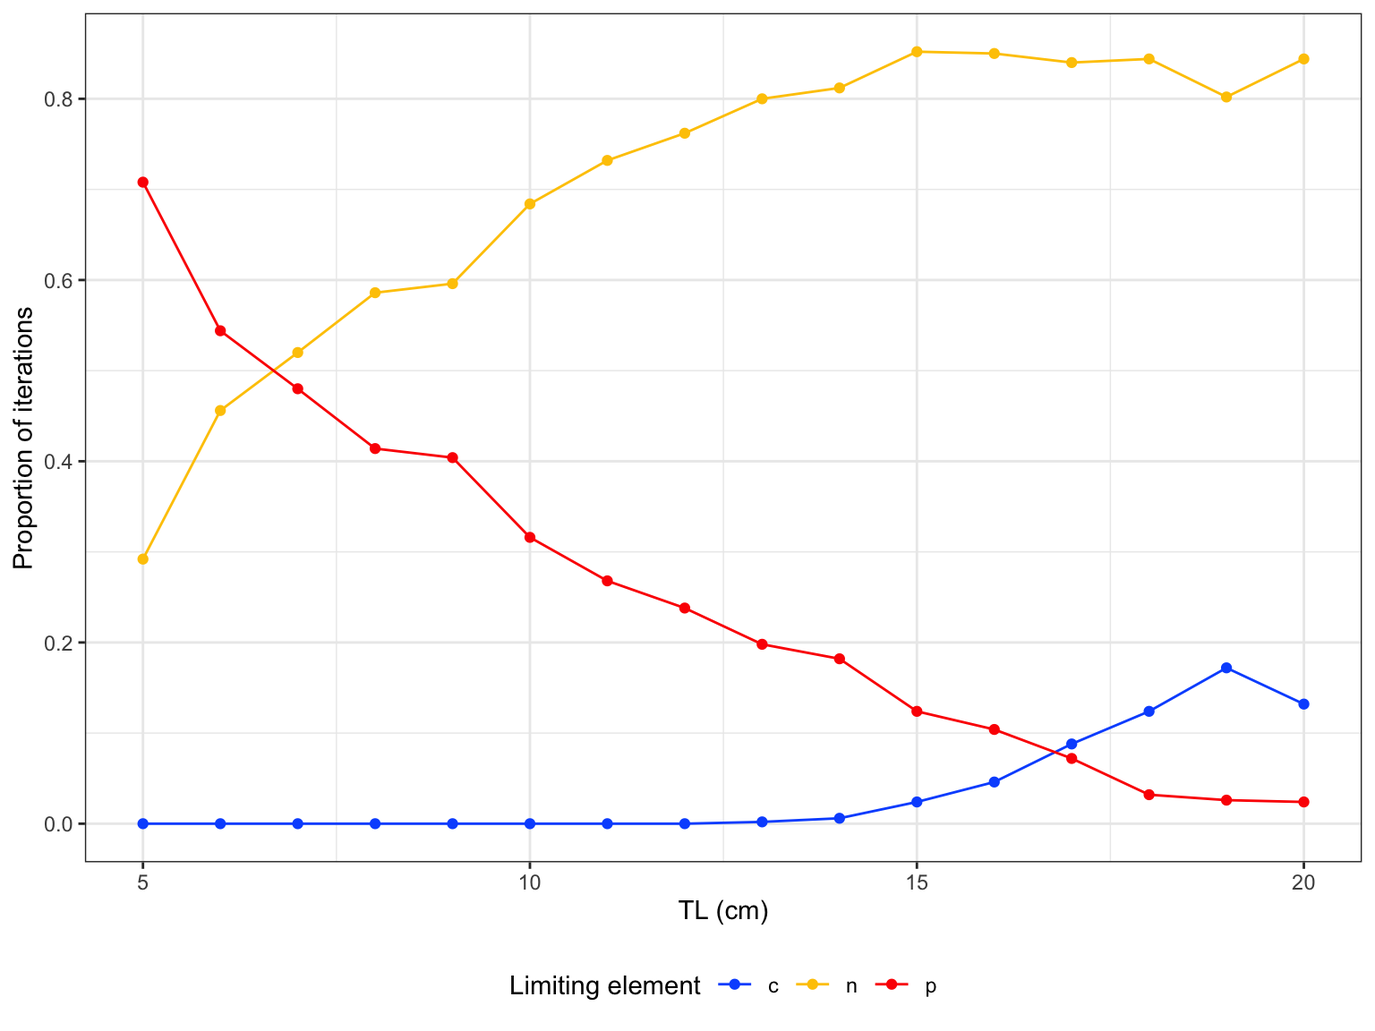
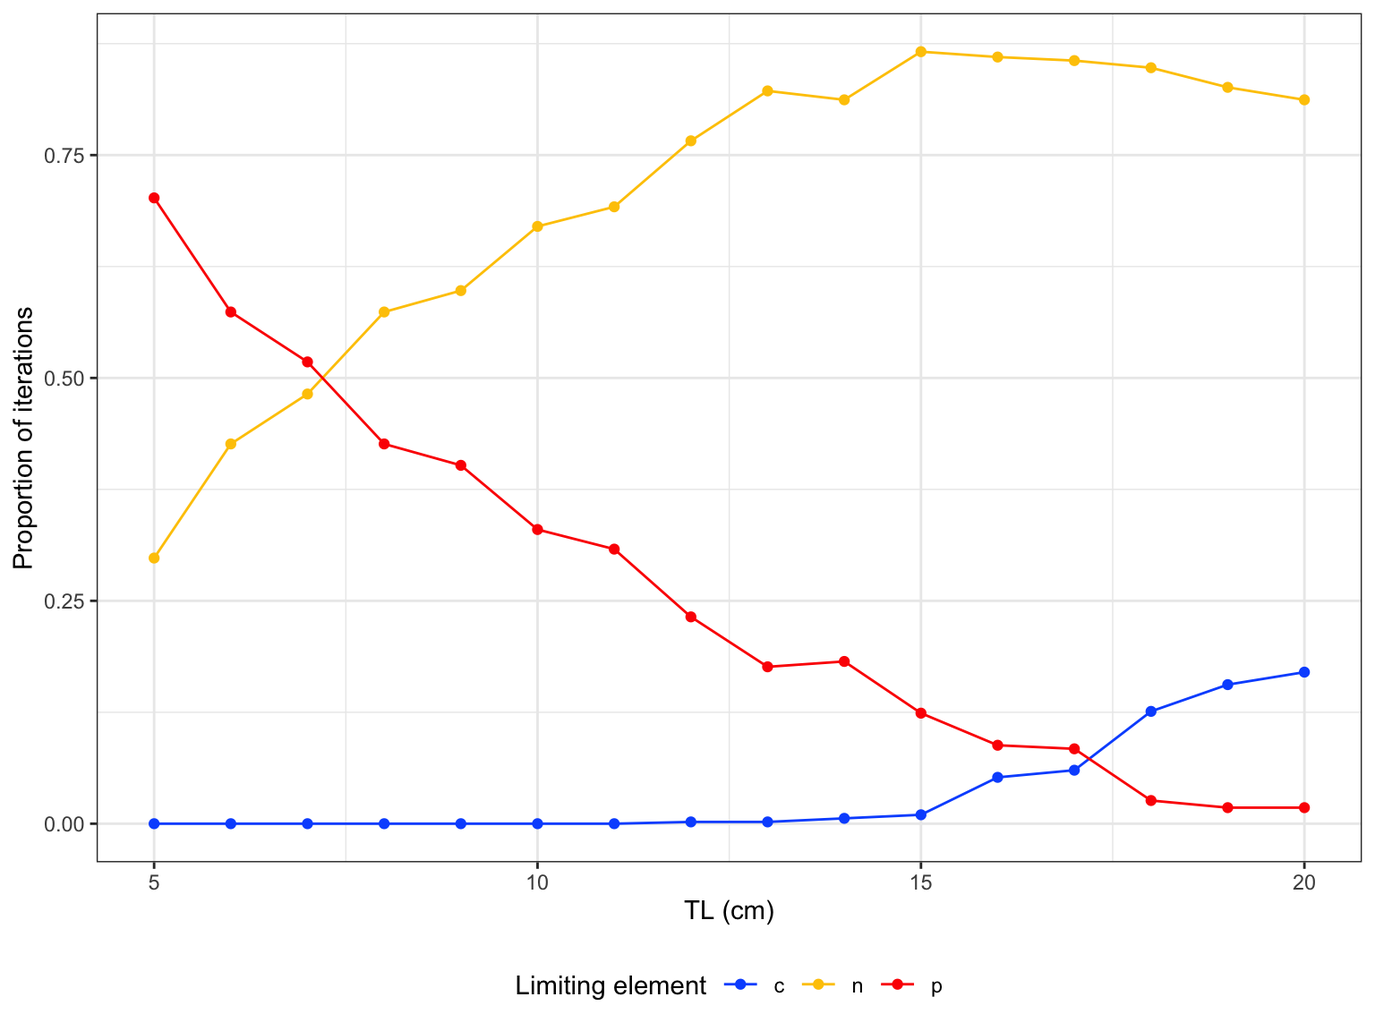
Built site for fishflux: 0.0.1@70c0918

diff --git a/articles/intro_to_fishflux.html b/articles/intro_to_fishflux.html
@@ -411,7 +411,7 @@ Elemental stoichiometry of diet
 <span class="co">#&gt;            species    t0 Linf     k     asp troph   lwa_m      lwa_sd lwb_m</span>
 <span class="co">#&gt; 1 Zebrasoma scopas -0.49 13.3 0.425 2.02091     2 0.02455 0.002627551  2.98</span>
 <span class="co">#&gt;      lwb_sd     mdw_m        f0_m        f0_sd alpha_m   alpha_sd</span>
-<span class="co">#&gt; 1 0.0255102 0.2504833 0.001517989 3.239441e-10    0.77 0.05286288</span>
+<span class="co">#&gt; 1 0.0255102 0.2504833 0.001517989 3.335891e-10    0.77 0.05286288</span>
 </pre></div>
 
 <p>All other parameters have to be provided by the user. For more information on how to acquire these parameters, take a look at (“this paper” add reference to methods paper).</p>
@@ -432,56 +432,56 @@ Elemental stoichiometry of diet
 <div class="sourceCode" id="cb10"><pre class="downlit">
 <span class="kw">fishflux</span>::<span class="fu"><a href="../reference/extract.html">extract</a></span>(<span class="kw">model</span>, <span class="fu"><a href="https://rdrr.io/r/base/c.html">c</a></span>(<span class="st">"Fn"</span>,<span class="st">"Fp"</span>))
 <span class="co">#&gt;    TL      Fn_mean    Fn_median        Fn_sd      Fn_2.5%    Fn_97.5%</span>
-<span class="co">#&gt; 1   5 0.0008624071 0.0007945772 0.0004344117 0.0002095275 0.001999599</span>
-<span class="co">#&gt; 2   6 0.0012887411 0.0012073908 0.0006003062 0.0003488058 0.002764480</span>
-<span class="co">#&gt; 3   7 0.0018719815 0.0017635960 0.0008178470 0.0005623709 0.003654885</span>
-<span class="co">#&gt; 4   8 0.0024894439 0.0023737883 0.0011257218 0.0007663171 0.005224500</span>
-<span class="co">#&gt; 5   9 0.0035424230 0.0032828864 0.0017305192 0.0009736595 0.007780738</span>
-<span class="co">#&gt; 6  10 0.0044270966 0.0039840207 0.0025288436 0.0010760292 0.010408472</span>
-<span class="co">#&gt; 7  11 0.0056378789 0.0049518562 0.0032996419 0.0012578436 0.013224862</span>
-<span class="co">#&gt; 8  12 0.0071758597 0.0061660378 0.0042307925 0.0015277784 0.016996612</span>
-<span class="co">#&gt; 9  13 0.0090130234 0.0075073697 0.0055369632 0.0020521413 0.022371724</span>
-<span class="co">#&gt; 10 14 0.0109935990 0.0093602720 0.0070901704 0.0017994043 0.028753355</span>
-<span class="co">#&gt; 11 15 0.0141239876 0.0124402215 0.0089976417 0.0023906456 0.036222880</span>
-<span class="co">#&gt; 12 16 0.0160743904 0.0143871028 0.0101548214 0.0030852579 0.042083295</span>
-<span class="co">#&gt; 13 17 0.0192069267 0.0173013642 0.0122418752 0.0039121735 0.048320349</span>
-<span class="co">#&gt; 14 18 0.0232574873 0.0211195825 0.0145605170 0.0050542017 0.057707720</span>
-<span class="co">#&gt; 15 19 0.0270940891 0.0233006100 0.0178455787 0.0064934561 0.070626165</span>
-<span class="co">#&gt; 16 20 0.0331138160 0.0286295615 0.0213946779 0.0080750147 0.086718964</span>
+<span class="co">#&gt; 1   5 0.0009208986 0.0008757712 0.0004455789 0.0002022490 0.002000257</span>
+<span class="co">#&gt; 2   6 0.0013399563 0.0012597864 0.0006321721 0.0003151797 0.002742479</span>
+<span class="co">#&gt; 3   7 0.0018287464 0.0017507786 0.0008915185 0.0004924142 0.003881261</span>
+<span class="co">#&gt; 4   8 0.0025720509 0.0023952971 0.0012882248 0.0006815558 0.005631768</span>
+<span class="co">#&gt; 5   9 0.0032735337 0.0029796680 0.0016062287 0.0009518918 0.007003784</span>
+<span class="co">#&gt; 6  10 0.0043860667 0.0039436169 0.0023872770 0.0009850060 0.010501280</span>
+<span class="co">#&gt; 7  11 0.0055169390 0.0048310204 0.0030091685 0.0013552425 0.012784785</span>
+<span class="co">#&gt; 8  12 0.0073186763 0.0063223437 0.0045134203 0.0018951753 0.019099055</span>
+<span class="co">#&gt; 9  13 0.0092162014 0.0080925184 0.0054666085 0.0021052881 0.022261287</span>
+<span class="co">#&gt; 10 14 0.0114989556 0.0095159432 0.0073907462 0.0019050427 0.028901945</span>
+<span class="co">#&gt; 11 15 0.0140201767 0.0119463611 0.0088137531 0.0028569763 0.036259840</span>
+<span class="co">#&gt; 12 16 0.0157320262 0.0130153116 0.0105847183 0.0026732200 0.041301412</span>
+<span class="co">#&gt; 13 17 0.0189606768 0.0152537627 0.0125317917 0.0038670285 0.050567784</span>
+<span class="co">#&gt; 14 18 0.0237221560 0.0201542942 0.0151217670 0.0049787751 0.059509532</span>
+<span class="co">#&gt; 15 19 0.0279889856 0.0235704931 0.0182011286 0.0067124438 0.070516294</span>
+<span class="co">#&gt; 16 20 0.0327026588 0.0274801001 0.0210512137 0.0078839282 0.085825042</span>
 <span class="co">#&gt;          Fn_25%      Fn_75%      Fp_mean    Fp_median        Fp_sd      Fp_2.5%</span>
-<span class="co">#&gt; 1  0.0005662332 0.001093958 7.801003e-05 3.704636e-05 0.0001044019 2.551625e-06</span>
-<span class="co">#&gt; 2  0.0009010228 0.001600764 1.740239e-04 9.436777e-05 0.0002042322 3.961847e-06</span>
-<span class="co">#&gt; 3  0.0013294641 0.002305454 2.859290e-04 1.646443e-04 0.0003192831 1.405270e-05</span>
-<span class="co">#&gt; 4  0.0016144875 0.003183081 4.750536e-04 3.164570e-04 0.0004458099 2.765282e-05</span>
-<span class="co">#&gt; 5  0.0022736909 0.004472521 7.377827e-04 4.803310e-04 0.0007069980 1.768506e-05</span>
-<span class="co">#&gt; 6  0.0026456679 0.005588843 1.083127e-03 7.478920e-04 0.0010383943 4.264640e-05</span>
-<span class="co">#&gt; 7  0.0032522462 0.007251977 1.496651e-03 1.105136e-03 0.0013406535 4.780548e-05</span>
-<span class="co">#&gt; 8  0.0041611347 0.009550999 2.121005e-03 1.650260e-03 0.0017487660 1.213738e-04</span>
-<span class="co">#&gt; 9  0.0048767812 0.012088629 2.788935e-03 2.158227e-03 0.0022892499 1.914251e-04</span>
-<span class="co">#&gt; 10 0.0055120411 0.014797055 3.622380e-03 2.970946e-03 0.0028462531 3.000881e-04</span>
-<span class="co">#&gt; 11 0.0068496945 0.019050095 4.942022e-03 4.280355e-03 0.0036056407 4.039846e-04</span>
-<span class="co">#&gt; 12 0.0075884592 0.021542258 5.822022e-03 5.148373e-03 0.0040528073 7.273919e-04</span>
-<span class="co">#&gt; 13 0.0089394263 0.025626847 7.205076e-03 6.416592e-03 0.0049006531 1.092066e-03</span>
-<span class="co">#&gt; 14 0.0110506777 0.031714178 9.016722e-03 8.070478e-03 0.0058509763 1.704170e-03</span>
-<span class="co">#&gt; 15 0.0130668219 0.036150434 1.078399e-02 9.348053e-03 0.0071514568 2.531557e-03</span>
-<span class="co">#&gt; 16 0.0162382511 0.044094051 1.317124e-02 1.120968e-02 0.0085237586 3.273215e-03</span>
+<span class="co">#&gt; 1  0.0006054676 0.001156666 8.155823e-05 4.332713e-05 0.0001033486 2.989275e-06</span>
+<span class="co">#&gt; 2  0.0009175032 0.001690877 1.723427e-04 8.502066e-05 0.0002065656 6.143016e-06</span>
+<span class="co">#&gt; 3  0.0011949198 0.002324027 2.801890e-04 1.545817e-04 0.0003161546 1.173326e-05</span>
+<span class="co">#&gt; 4  0.0016852692 0.003194302 4.896933e-04 2.900398e-04 0.0005100453 1.630476e-05</span>
+<span class="co">#&gt; 5  0.0021538957 0.004113712 6.573759e-04 4.128146e-04 0.0006307567 2.590260e-05</span>
+<span class="co">#&gt; 6  0.0027216125 0.005649965 1.055816e-03 7.193563e-04 0.0009626728 4.740704e-05</span>
+<span class="co">#&gt; 7  0.0032545750 0.007213247 1.449916e-03 1.069282e-03 0.0012495229 9.130218e-05</span>
+<span class="co">#&gt; 8  0.0039363585 0.009304058 2.169990e-03 1.670609e-03 0.0018669010 1.074961e-04</span>
+<span class="co">#&gt; 9  0.0050148017 0.012349168 2.886499e-03 2.365412e-03 0.0021914941 1.963376e-04</span>
+<span class="co">#&gt; 10 0.0057290437 0.016368143 3.834394e-03 3.151611e-03 0.0030031959 2.538683e-04</span>
+<span class="co">#&gt; 11 0.0072183242 0.018960108 4.888591e-03 3.999910e-03 0.0035494740 4.166069e-04</span>
+<span class="co">#&gt; 12 0.0074770035 0.022234421 5.731695e-03 4.742881e-03 0.0042414123 6.547360e-04</span>
+<span class="co">#&gt; 13 0.0092143760 0.025799878 7.091201e-03 5.645215e-03 0.0049921849 1.074777e-03</span>
+<span class="co">#&gt; 14 0.0122765657 0.031920240 9.198516e-03 7.815191e-03 0.0059819263 1.809847e-03</span>
+<span class="co">#&gt; 15 0.0132631161 0.037671761 1.112670e-02 9.475746e-03 0.0072276179 2.661982e-03</span>
+<span class="co">#&gt; 16 0.0154656448 0.045547818 1.301887e-02 1.096595e-02 0.0084157961 3.102203e-03</span>
 <span class="co">#&gt;        Fp_97.5%       Fp_25%       Fp_75%</span>
-<span class="co">#&gt; 1  0.0004051871 1.894728e-05 8.863932e-05</span>
-<span class="co">#&gt; 2  0.0006833900 4.450719e-05 2.301386e-04</span>
-<span class="co">#&gt; 3  0.0011611365 7.749544e-05 3.700230e-04</span>
-<span class="co">#&gt; 4  0.0016340088 1.419442e-04 6.726273e-04</span>
-<span class="co">#&gt; 5  0.0025047585 2.187759e-04 1.075023e-03</span>
-<span class="co">#&gt; 6  0.0036458084 3.305974e-04 1.580607e-03</span>
-<span class="co">#&gt; 7  0.0046896268 4.801594e-04 2.094623e-03</span>
-<span class="co">#&gt; 8  0.0065567429 7.694228e-04 3.075099e-03</span>
-<span class="co">#&gt; 9  0.0082555432 9.395739e-04 4.160681e-03</span>
-<span class="co">#&gt; 10 0.0104302751 1.374314e-03 5.057704e-03</span>
-<span class="co">#&gt; 11 0.0133000909 2.067056e-03 6.967200e-03</span>
-<span class="co">#&gt; 12 0.0166392610 2.452862e-03 7.887651e-03</span>
-<span class="co">#&gt; 13 0.0190408818 3.138350e-03 9.878640e-03</span>
-<span class="co">#&gt; 14 0.0226706967 4.179777e-03 1.221833e-02</span>
-<span class="co">#&gt; 15 0.0281680139 5.124907e-03 1.431531e-02</span>
-<span class="co">#&gt; 16 0.0354747170 6.577155e-03 1.741905e-02</span>
+<span class="co">#&gt; 1  0.0003798981 2.161862e-05 8.119739e-05</span>
+<span class="co">#&gt; 2  0.0007792470 4.365322e-05 2.154582e-04</span>
+<span class="co">#&gt; 3  0.0011279657 7.632134e-05 3.880279e-04</span>
+<span class="co">#&gt; 4  0.0017295542 1.322687e-04 6.927395e-04</span>
+<span class="co">#&gt; 5  0.0023112615 2.068545e-04 9.153216e-04</span>
+<span class="co">#&gt; 6  0.0034432847 3.315654e-04 1.488509e-03</span>
+<span class="co">#&gt; 7  0.0046711950 4.431943e-04 2.069079e-03</span>
+<span class="co">#&gt; 8  0.0070228053 7.419642e-04 3.039110e-03</span>
+<span class="co">#&gt; 9  0.0081204282 1.144595e-03 4.093998e-03</span>
+<span class="co">#&gt; 10 0.0112871199 1.351932e-03 5.595285e-03</span>
+<span class="co">#&gt; 11 0.0135785068 2.139570e-03 6.715933e-03</span>
+<span class="co">#&gt; 12 0.0159926089 2.343585e-03 8.433736e-03</span>
+<span class="co">#&gt; 13 0.0195194237 3.201099e-03 9.523015e-03</span>
+<span class="co">#&gt; 14 0.0233051301 4.657418e-03 1.244946e-02</span>
+<span class="co">#&gt; 15 0.0285289612 5.318301e-03 1.483637e-02</span>
+<span class="co">#&gt; 16 0.0339367776 6.135845e-03 1.821562e-02</span>
 </pre></div>
 
 </div>
@@ -502,47 +502,47 @@ Elemental stoichiometry of diet
 #&gt; 5   9        c    0.000
 #&gt; 6  10        c    0.000
 #&gt; 7  11        c    0.000
-#&gt; 8  12        c    0.000
+#&gt; 8  12        c    0.002
 #&gt; 9  13        c    0.002
 #&gt; 10 14        c    0.006
-#&gt; 11 15        c    0.024
-#&gt; 12 16        c    0.046
-#&gt; 13 17        c    0.088
-#&gt; 14 18        c    0.124
-#&gt; 15 19        c    0.172
-#&gt; 16 20        c    0.132
-#&gt; 17  5        n    0.292
-#&gt; 18  6        n    0.456
-#&gt; 19  7        n    0.520
-#&gt; 20  8        n    0.586
-#&gt; 21  9        n    0.596
-#&gt; 22 10        n    0.684
-#&gt; 23 11        n    0.732
-#&gt; 24 12        n    0.762
-#&gt; 25 13        n    0.800
+#&gt; 11 15        c    0.010
+#&gt; 12 16        c    0.052
+#&gt; 13 17        c    0.060
+#&gt; 14 18        c    0.126
+#&gt; 15 19        c    0.156
+#&gt; 16 20        c    0.170
+#&gt; 17  5        n    0.298
+#&gt; 18  6        n    0.426
+#&gt; 19  7        n    0.482
+#&gt; 20  8        n    0.574
+#&gt; 21  9        n    0.598
+#&gt; 22 10        n    0.670
+#&gt; 23 11        n    0.692
+#&gt; 24 12        n    0.766
+#&gt; 25 13        n    0.822
 #&gt; 26 14        n    0.812
-#&gt; 27 15        n    0.852
-#&gt; 28 16        n    0.850
-#&gt; 29 17        n    0.840
-#&gt; 30 18        n    0.844
-#&gt; 31 19        n    0.802
-#&gt; 32 20        n    0.844
-#&gt; 33  5        p    0.708
-#&gt; 34  6        p    0.544
-#&gt; 35  7        p    0.480
-#&gt; 36  8        p    0.414
-#&gt; 37  9        p    0.404
-#&gt; 38 10        p    0.316
-#&gt; 39 11        p    0.268
-#&gt; 40 12        p    0.238
-#&gt; 41 13        p    0.198
+#&gt; 27 15        n    0.866
+#&gt; 28 16        n    0.860
+#&gt; 29 17        n    0.856
+#&gt; 30 18        n    0.848
+#&gt; 31 19        n    0.826
+#&gt; 32 20        n    0.812
+#&gt; 33  5        p    0.702
+#&gt; 34  6        p    0.574
+#&gt; 35  7        p    0.518
+#&gt; 36  8        p    0.426
+#&gt; 37  9        p    0.402
+#&gt; 38 10        p    0.330
+#&gt; 39 11        p    0.308
+#&gt; 40 12        p    0.232
+#&gt; 41 13        p    0.176
 #&gt; 42 14        p    0.182
 #&gt; 43 15        p    0.124
-#&gt; 44 16        p    0.104
-#&gt; 45 17        p    0.072
-#&gt; 46 18        p    0.032
-#&gt; 47 19        p    0.026
-#&gt; 48 20        p    0.024
+#&gt; 44 16        p    0.088
+#&gt; 45 17        p    0.084
+#&gt; 46 18        p    0.026
+#&gt; 47 19        p    0.018
+#&gt; 48 20        p    0.018
 ## Plot one variable:
 fishflux::plot_cnp(model,  y = "Fp", x = "tl", probs = c(0.5, 0.8, 0.95))</a></code></pre>
 <p><img src="intro_to_fishflux_files/figure-html/unnamed-chunk-9-2.png" width="768"></p>
@@ -562,11 +562,11 @@ fishflux::plot_cnp(model,  y = "Fp", x = "tl", probs = c(0.5, 0.8, 0.95))</a></c
 </pre></div>
 <p><img src="intro_to_fishflux_files/figure-html/unnamed-chunk-10-1.png" width="768"></p>
 <pre><code>#&gt;              Fn_CI        Fp_CI        Ic_CI
-#&gt; Dn_sd 1.975923e-10 0.0002408949 8.603388e-03
-#&gt; Dp_sd 2.003371e-10 0.0008090494 2.120066e-09
-#&gt; Qn_sd 2.026773e-03 0.0007909856 2.824949e-02
-#&gt; Qp_sd 2.080474e-10 0.0007770461 2.170506e-09
-#&gt; k_sd  2.037900e-10 0.0001099917 1.057613e-02</code></pre>
+#&gt; Dn_sd 1.998172e-10 0.0002389841 8.535145e-03
+#&gt; Dp_sd 1.794039e-10 0.0008041438 1.907995e-09
+#&gt; Qn_sd 2.034268e-03 0.0007939106 2.835395e-02
+#&gt; Qp_sd 1.940992e-10 0.0007286486 2.054829e-09
+#&gt; k_sd  1.799916e-10 0.0001107507 1.064911e-02</code></pre>
 
 </div>
 </div>

diff --git a/reference/extract.html b/reference/extract.html
@@ -174,19 +174,19 @@
     <h2 class="hasAnchor" id="examples"><a class="anchor" href="#examples"></a>Examples</h2>
     <pre class="examples"><div class='input'><span class='kw'>model</span> <span class='op'>&lt;-</span> <span class='fu'><a href='https://rdrr.io/pkg/fishflux/man/cnp_model_mcmc.html'>cnp_model_mcmc</a></span>(TL = <span class='fl'>5</span><span class='op'>:</span><span class='fl'>10</span>, param = <span class='fu'><a href='https://rdrr.io/r/base/list.html'>list</a></span>(Qc_m = <span class='fl'>40</span>, Qn_m = <span class='fl'>10</span>, Qp_m = <span class='fl'>4</span>))
 <span class='fu'><a href='https://rdrr.io/pkg/fishflux/man/extract.html'>extract</a></span>(<span class='kw'>model</span>, <span class='fu'><a href='https://rdrr.io/r/base/c.html'>c</a></span>(<span class='st'>"Fn"</span>,<span class='st'>"Fp"</span>))</div><div class='output co'>#&gt;   TL      Fn_mean    Fn_median        Fn_sd      Fn_2.5%     Fn_97.5%
-#&gt; 1  5 0.0006047886 0.0006047886 6.440557e-12 0.0006047886 0.0006047886
-#&gt; 2  6 0.0010610097 0.0010610097 1.129205e-11 0.0010610097 0.0010610097
-#&gt; 3  7 0.0017065393 0.0017065393 1.646983e-11 0.0017065393 0.0017065394
-#&gt; 4  8 0.0025757605 0.0025757605 2.589566e-11 0.0025757604 0.0025757605
-#&gt; 5  9 0.0037034689 0.0037034689 3.672855e-11 0.0037034688 0.0037034690
-#&gt; 6 10 0.0051248251 0.0051248251 4.998687e-11 0.0051248250 0.0051248252
+#&gt; 1  5 0.0006047886 0.0006047886 6.133748e-12 0.0006047886 0.0006047886
+#&gt; 2  6 0.0010610097 0.0010610097 1.059233e-11 0.0010610097 0.0010610097
+#&gt; 3  7 0.0017065393 0.0017065393 1.711369e-11 0.0017065393 0.0017065394
+#&gt; 4  8 0.0025757605 0.0025757605 2.668979e-11 0.0025757604 0.0025757605
+#&gt; 5  9 0.0037034689 0.0037034689 3.757699e-11 0.0037034688 0.0037034690
+#&gt; 6 10 0.0051248251 0.0051248251 4.929598e-11 0.0051248250 0.0051248252
 #&gt;         Fn_25%       Fn_75%      Fp_mean    Fp_median        Fp_sd      Fp_2.5%
-#&gt; 1 0.0006047886 0.0006047886 0.0001097965 0.0001097965 1.884819e-12 0.0001097965
-#&gt; 2 0.0010610097 0.0010610097 0.0002186548 0.0002186548 3.291747e-12 0.0002186548
-#&gt; 3 0.0017065393 0.0017065394 0.0003815567 0.0003815567 4.799021e-12 0.0003815567
-#&gt; 4 0.0025757605 0.0025757605 0.0006096826 0.0006096826 7.567859e-12 0.0006096826
-#&gt; 5 0.0037034689 0.0037034689 0.0009143614 0.0009143614 1.070241e-11 0.0009143614
-#&gt; 6 0.0051248251 0.0051248251 0.0013070515 0.0013070515 1.463142e-11 0.0013070515
+#&gt; 1 0.0006047886 0.0006047886 0.0001097965 0.0001097965 1.777450e-12 0.0001097965
+#&gt; 2 0.0010610097 0.0010610097 0.0002186548 0.0002186548 3.075684e-12 0.0002186548
+#&gt; 3 0.0017065393 0.0017065393 0.0003815567 0.0003815567 5.005721e-12 0.0003815567
+#&gt; 4 0.0025757605 0.0025757605 0.0006096826 0.0006096826 7.770109e-12 0.0006096826
+#&gt; 5 0.0037034689 0.0037034689 0.0009143614 0.0009143614 1.094689e-11 0.0009143614
+#&gt; 6 0.0051248250 0.0051248251 0.0013070515 0.0013070515 1.440009e-11 0.0013070515
 #&gt;       Fp_97.5%       Fp_25%       Fp_75%
 #&gt; 1 0.0001097965 0.0001097965 0.0001097965
 #&gt; 2 0.0002186548 0.0002186548 0.0002186548

diff --git a/reference/sensitivity.html b/reference/sensitivity.html
@@ -176,9 +176,9 @@ Plots a heatplot with width of the 95<!-- %CI of output predictions. --></p>
     <pre class="examples"><div class='input'><span class='fu'><a href='https://rdrr.io/r/base/library.html'>library</a></span>(<span class='kw'><a href='https://nschiett.github.io/fishflux'>fishflux</a></span>)
 <span class='fu'><a href='https://rdrr.io/pkg/fishflux/man/sensitivity.html'>sensitivity</a></span>(TL = <span class='fl'>10</span>, param = <span class='fu'><a href='https://rdrr.io/r/base/list.html'>list</a></span>(k_sd = <span class='fl'>0.2</span>, Dn_sd = <span class='fl'>0.2</span>, Dc_sd = <span class='fl'>0.1</span>),
             par = <span class='fu'><a href='https://rdrr.io/r/base/c.html'>c</a></span>(<span class='st'>"k_sd"</span>,<span class='st'>"Dn_sd"</span>,<span class='st'>"Dc_sd"</span>), out = <span class='fu'><a href='https://rdrr.io/r/base/c.html'>c</a></span>(<span class='st'>"Ic"</span>, <span class='st'>"In"</span>, <span class='st'>"Ip"</span>, <span class='st'>"Gc"</span>))</div><div class='output co'>#&gt; <span class='message'>Joining, by = "key"</span></div><div class='img'><img src='sensitivity-1.png' alt='' width='700' height='433' /></div><div class='output co'>#&gt;            Ic_CI        In_CI        Ip_CI        Gc_CI
-#&gt; k_sd  0.03187298 3.824757e-03 1.274919e-03 1.223922e-02
-#&gt; Dn_sd 0.23976777 4.035736e-03 9.590711e-03 6.846468e-11
-#&gt; Dc_sd 0.01075819 2.481083e-10 8.332959e-11 7.307974e-11</div><div class='input'></div></pre>
+#&gt; k_sd  0.03063276 3.675931e-03 1.225310e-03 1.176298e-02
+#&gt; Dn_sd 0.23375100 4.732455e-03 9.350040e-03 7.107293e-11
+#&gt; Dc_sd 0.01150392 2.698750e-10 8.998222e-11 7.112748e-11</div><div class='input'></div></pre>
   </div>
   <div class="col-md-3 hidden-xs hidden-sm" id="pkgdown-sidebar">
     <nav id="toc" data-toggle="toc" class="sticky-top">

diff --git a/reference/check_name_fishbase.html b/reference/check_name_fishbase.html
@@ -131,7 +131,7 @@ name_errors) if the provided species name is wrong." />
 <code><a href='https://rdrr.io/pkg/fishflux/man/name_errors.html'>name_errors</a></code>) if the provided species name is wrong.</p>
     </div>
 
-    <pre class="usage"><span class='fu'>check_name_fishbase</span>(<span class='kw'>sp</span>)</pre>
+    <pre class="usage"><span class='fu'><a href='https://rdrr.io/pkg/fishflux/man/check_name_fishbase.html'>check_name_fishbase</a></span>(<span class='kw'>sp</span>)</pre>
 
     <h2 class="hasAnchor" id="arguments"><a class="anchor" href="#arguments"></a>Arguments</h2>
     <table class="ref-arguments">
@@ -144,8 +144,10 @@ name_errors) if the provided species name is wrong." />
 
 
     <h2 class="hasAnchor" id="examples"><a class="anchor" href="#examples"></a>Examples</h2>
-    <pre class="examples"><div class='input'><span class='fu'><a href='https://rdrr.io/r/base/library.html'>library</a></span>(<span class='kw'><a href='https://nschiett.github.io/fishflux'>fishflux</a></span>)
+    <pre class="examples"><div class='input'><span class='co'>if</span> (<span class='fl'>FALSE</span>) {
+<span class='fu'><a href='https://rdrr.io/r/base/library.html'>library</a></span>(<span class='kw'><a href='https://nschiett.github.io/fishflux'>fishflux</a></span>)
 <span class='fu'><a href='https://rdrr.io/pkg/fishflux/man/check_name_fishbase.html'>check_name_fishbase</a></span>(<span class='st'>"Lutjanus griseus"</span>)
+}
 </div></pre>
   </div>
   <div class="col-md-3 hidden-xs hidden-sm" id="pkgdown-sidebar">

diff --git a/reference/aspect_ratio.html b/reference/aspect_ratio.html
@@ -146,10 +146,12 @@ and the level at which the aspect ratio was found (species or genus).</p>
 
 
     <h2 class="hasAnchor" id="examples"><a class="anchor" href="#examples"></a>Examples</h2>
-    <pre class="examples"><div class='input'><span class='co'>#library(fishflux)</span>
-<span class='co'>#library(plyr)</span>
-<span class='co'>#aspect_ratio("Lutjanus griseus")</span>
-<span class='co'>#ldply(lapply(c("Chlorurus spilurus","Zebrasoma scopas"), aspect_ratio))</span>
+    <pre class="examples"><div class='input'><span class='co'>if</span> (<span class='fl'>FALSE</span>) {
+<span class='fu'><a href='https://rdrr.io/r/base/library.html'>library</a></span>(<span class='kw'><a href='https://nschiett.github.io/fishflux'>fishflux</a></span>)
+<span class='fu'><a href='https://rdrr.io/r/base/library.html'>library</a></span>(<span class='kw'><a href='http://had.co.nz/plyr'>plyr</a></span>)
+<span class='fu'><a href='https://rdrr.io/pkg/fishflux/man/aspect_ratio.html'>aspect_ratio</a></span>(<span class='st'>"Lutjanus griseus"</span>)
+<span class='fu'><a href='https://rdrr.io/pkg/plyr/man/ldply.html'>ldply</a></span>(<span class='fu'><a href='https://rdrr.io/r/base/lapply.html'>lapply</a></span>(<span class='fu'><a href='https://rdrr.io/r/base/c.html'>c</a></span>(<span class='st'>"Chlorurus spilurus"</span>,<span class='st'>"Zebrasoma scopas"</span>), <span class='kw'>aspect_ratio</span>))
+}
 </div></pre>
   </div>
   <div class="col-md-3 hidden-xs hidden-sm" id="pkgdown-sidebar">

diff --git a/reference/limitation.html b/reference/limitation.html
@@ -172,8 +172,8 @@
 #&gt; Chain 1: Iteration: 1000 / 1000 [100%]  (Sampling)
 #&gt; Chain 1: 
 #&gt; Chain 1:  Elapsed Time: 0 seconds (Warm-up)
-#&gt; Chain 1:                0.013515 seconds (Sampling)
-#&gt; Chain 1:                0.013515 seconds (Total)
+#&gt; Chain 1:                0.013894 seconds (Sampling)
+#&gt; Chain 1:                0.013894 seconds (Total)
 #&gt; Chain 1: </div><div class='input'><span class='fu'><a href='https://rdrr.io/pkg/fishflux/man/limitation.html'>limitation</a></span>(<span class='kw'>mod</span>)</div><div class='output co'>#&gt; <span class='message'>geom_path: Each group consists of only one observation. Do you need to adjust</span>
 #&gt; <span class='message'>the group aesthetic?</span></div><div class='img'><img src='limitation-1.png' alt='' width='700' height='433' /></div><div class='output co'>#&gt;   tl nutrient prop_lim
 #&gt; 1  5        c    0.000

diff --git a/reference/metabolism.html b/reference/metabolism.html
@@ -186,8 +186,8 @@ which also includes trophic level as a covariate.</p>
 #&gt; Chain 1: Iteration: 1000 / 1000 [100%]  (Sampling)
 #&gt; Chain 1: 
 #&gt; Chain 1:  Elapsed Time: 0 seconds (Warm-up)
-#&gt; Chain 1:                0.001395 seconds (Sampling)
-#&gt; Chain 1:                0.001395 seconds (Total)
+#&gt; Chain 1:                0.001403 seconds (Sampling)
+#&gt; Chain 1:                0.001403 seconds (Total)
 #&gt; Chain 1: </div><div class='output co'>#&gt;          f0_m       f0_sd   alpha_m  alpha_sd        b0_m        b0_sd
 #&gt; 1 0.004528457 0.002004058 0.4256931 0.1035894 0.001415727 0.0006612888</div><div class='input'></div></pre>
   </div>

diff --git a/reference/model_parameters.html b/reference/model_parameters.html
@@ -177,8 +177,8 @@
 #&gt; Chain 1: Iteration: 1000 / 1000 [100%]  (Sampling)
 #&gt; Chain 1: 
 #&gt; Chain 1:  Elapsed Time: 0 seconds (Warm-up)
-#&gt; Chain 1:                0.001381 seconds (Sampling)
-#&gt; Chain 1:                0.001381 seconds (Total)
+#&gt; Chain 1:                0.001418 seconds (Sampling)
+#&gt; Chain 1:                0.001418 seconds (Total)
 #&gt; Chain 1: </div><div class='output co'>#&gt;            species      t0  Linf     k     asp troph   lwa_m      lwa_sd lwb_m
 #&gt; 1 Scarus psittacus -0.6025 23.05 0.814 1.80877     2 0.01585 0.001760204  3.06
 #&gt;       lwb_sd     mdw_m        f0_m        f0_sd alpha_m   alpha_sd

diff --git a/reference/cnp_model_mcmc.html b/reference/cnp_model_mcmc.html
@@ -214,8 +214,8 @@ Qc_m = <span class='fl'>40</span>, Qn_m = <span class='fl'>10</span>, Qp_m = <sp
 #&gt; Chain 1: Iteration: 1000 / 1000 [100%]  (Sampling)
 #&gt; Chain 1: 
 #&gt; Chain 1:  Elapsed Time: 0 seconds (Warm-up)
-#&gt; Chain 1:                0.013258 seconds (Sampling)
-#&gt; Chain 1:                0.013258 seconds (Total)
+#&gt; Chain 1:                0.013859 seconds (Sampling)
+#&gt; Chain 1:                0.013859 seconds (Total)
 #&gt; Chain 1: </div><div class='input'></div></pre>
   </div>
   <div class="col-md-3 hidden-xs hidden-sm" id="pkgdown-sidebar">
